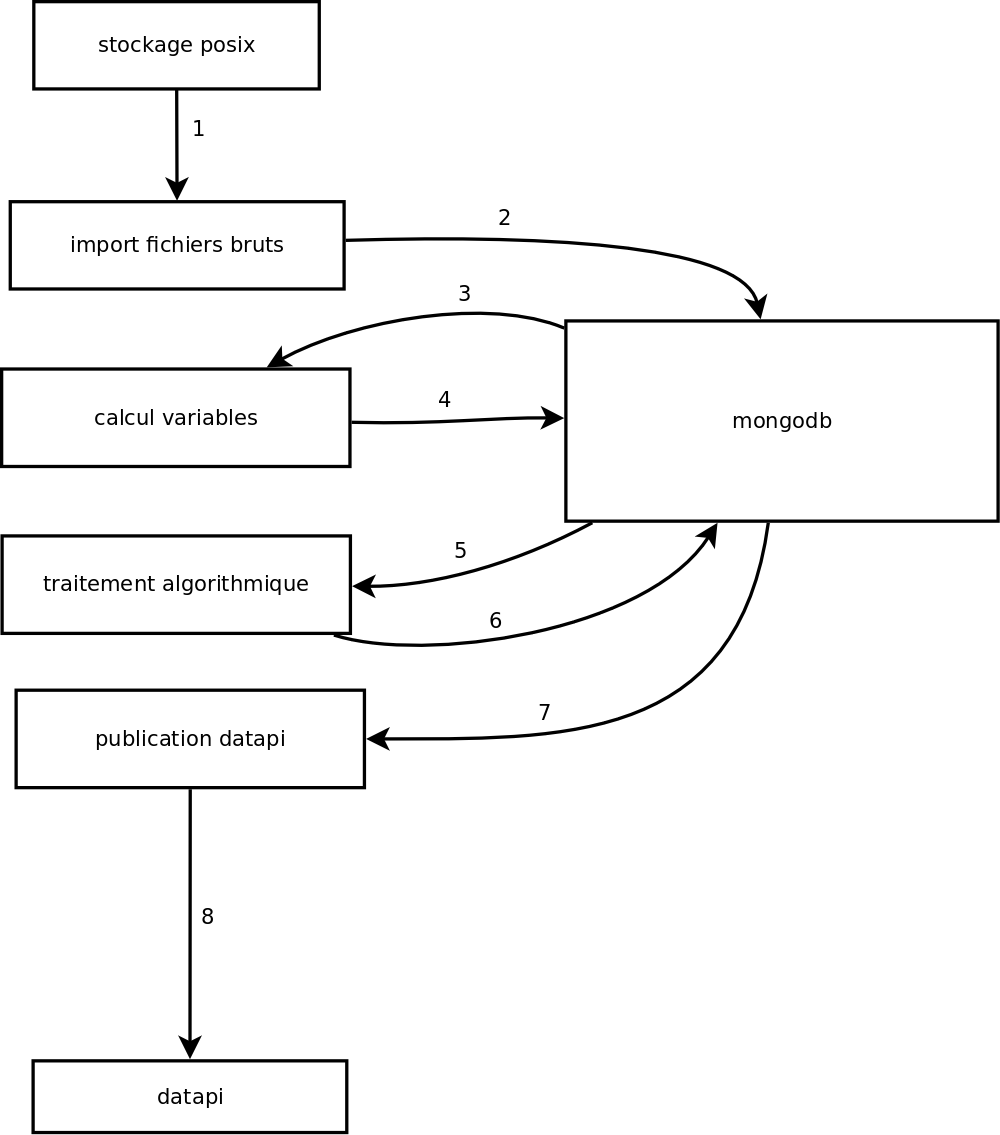
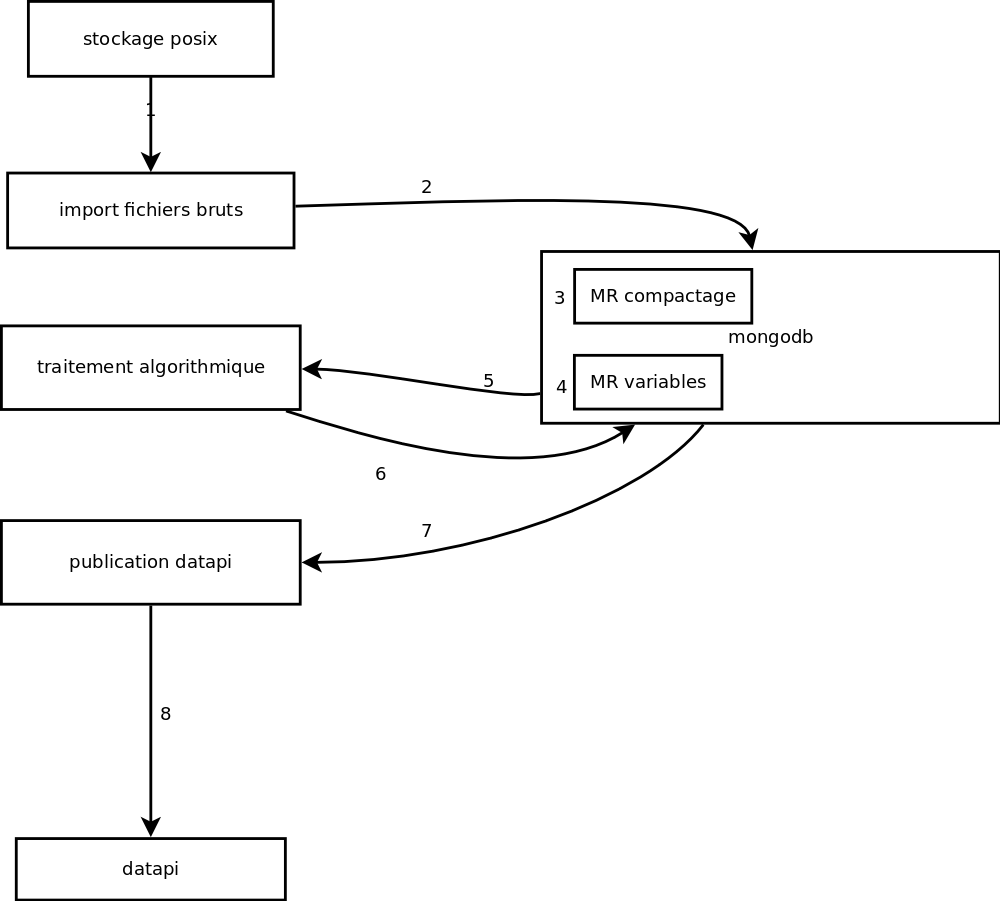
datapi

Changed region(s): [[0.0, 0.0, 1.0, 1.0], [0.713, 0.5283, 0.744, 0.5905], [0.651, 0.5905, 0.713, 0.6215]]

diff --git a/architecture-logicielle.md b/architecture-logicielle.md
@@ -1,5 +1,11 @@
 # Architecture logicielle
 
+## Préambule
+Ce dossier technique décrit les éléments logiciels mis en jeu dans le projet signaux-faibles. Cet ensemble est en cours de construction et est susceptible d'évoluer sensiblement. 
+
+Il est à noter que la brique keycloak est en cours d'intégration suite aux discussions qui ont eu lieu avec les experts des différents partenaires et devrait à terme remplacer le middleware gin-jwt interfacé avec gin-gonic.
+Il se peut que des modifications soient opérées pour tirer le meilleur parti de cette brique logicielle, ces modifications seront répercutées au fil de l'eau dans cette documentation.
+
 ## Objectifs du dispositif
 - récolter les données brutes en provenance des partenaires (goup + stockage POSIX) 
 - traiter/importer les données brutes (opensignauxfaibles + mongodb)
@@ -10,22 +16,22 @@
 ## Schéma fonctionnel
 ![schéma](architecture-logicielle/archi.png)
 
-### goup
+## goup
 Plus de détails sont disponibles [ici](https://github.com/signaux-faibles/goup)
 
-#### Objectif
+### Objectif
 goup permet aux partenaires de déposer les fichiers de données brutes sur la plateforme.  
-#### Composition
+### Composition
 goup est basé sur [tusd](https://github.com/tus/tusd) et lui ajoute des fonctionnalités:
 - authentification par JWT
 - espaces privatifs par utilisateurs (gestion des droits et des chemins)
 - supprime la possibilité de télécharger les fichiers
-#### Authentification JWT
+### Authentification JWT
 En l'absence d'un JWT valide, le service refuse les sollicitations.  
 Ce token devra en plus fournir dans son chargement une propriété `goup-path` correspondant au nom d'utilisateur posix ciblé par le versement.  
 
 
-#### Traitement des fichiers uploadés
+### Traitement des fichiers uploadés
 - Lors de l'envoi, le fichier n'est accessible qu'au serveur
 - La métadonnée `private` associée à l'upload permettra au serveur de décider quel traitement effectuer sur le fichier pour sa mise à disposition.
 - Une fois l'envoi complété, le fichier reste disponible dans l'espace du serveur de sorte qu'il pourra naturellement détecté que le fichier est déjà complet et éviter un deuxième envoi.
@@ -33,7 +39,7 @@ Ce token devra en plus fournir dans son chargement une propriété `goup-path` c
 - Un lien est créé dans l'espace de stockage ad-hoc.
 
 
-#### Structure du stockage
+### Structure du stockage
 Le fichiers uploadés sont matérialisés sur le disque dur par deux fichiers nommés d'après le hash de l'upload généré par TUS:
 - un fichier .bin qui contient les données du fichier
 - un fichier .info qui contient les métadonnées
@@ -76,7 +82,7 @@ chemin                           user:group            mode
 |   +-- file4.info               user2:goup            660
 ```
 
-#### dépendances logicielles
+### dépendances logicielles
 goup est développé en go (v1.10) et exploite les packages suivants:
 - https://github.com/tus/tusd
 - https://github.com/tus/tusd/filestore
@@ -85,51 +91,111 @@ goup est développé en go (v1.10) et exploite les packages suivants:
 - https://github.com/gin-gonic/gin
 - https://github.com/spf13/viper
 
-### client TUS 
-Un exemple de client tus est fourni [ici](https://github.com/signaux-faibles/goup/tree/master/goup-client) et permet de voir une implémentation javascript basée sur le client officiel.  
-On trouve toutefois des clients dans de nombreux langages qui permettront aux utilisateurs d'intégrer l'upload de fichier dans leurs plateformes.  
-
-### keycloak
+## keycloak
 Il s'agit du produit officiel développé par Red-Hat.
 KeyCloak fournit les services d'authentification pour `goup` et `datapi` en forgeant les JWT des utilisateurs.
 
-#### Structure du chargement JWT
+### Structure du chargement JWT
 Deux métadonnées sont utilisées:
 - goup-path: ouvre la possibilité de téléverger des fichiers sur goup et désigne l'utilisateur. Il s'agit d'une chaine de caractère
 - scope: fixe les attribution de l'utilisateurs au sein de datapi. Il s'agit d'une liste de chaines de caractères.
 
-### opensignauxfaibles
-#### Objectif
+## opensignauxfaibles
+### Objectif
 opensignauxfaibles se charge du traitement des données:
 - import des fichiers bruts
 - calcul des données d'entrée de l'algorithme
 - stockage des résultats
 
-cette brique permet de stocker l'historique des données brutes, mais aussi calculées, ainsi que les résultats de façon offrir une plateforme de travail propice à l'investigation.
-#### Modules
-##### dbmongo
+Cette brique intègre le stockage de l'historique des données brutes, mais aussi calculées, ainsi que des résultats de façon à permettre l'audit des calculs a posteriori.
+
+### Modules
+#### dbmongo
 Ce module est écrit en go (1.10) et centralise les fonctions de traitement des données suivantes:
 - analyse des fichiers bruts
 - conversion/insert dans mongodb
 - ordonnancement des traitements mapreduce/aggregations mongodb
 - publication vers datapi
 
-##### module R/H2O
-Ce module permet le traitement algorithmique.. (à écrire)
+##### Dépendances logicielles
+- https://github.com/appleboy/gin-jwt
+- https://github.com/gin-contrib/cors
+- https://github.com/gin-contrib/static
+- https://github.com/gin-gonic/gin
+- https://github.com/gorilla/websocket
+- https://github.com/spf13/viper
+- https://github.com/swaggo/gin-swagger
+- https://github.com/swaggo/gin-swagger/swaggerFiles
+- https://github.com/globalsign/mgo
+- https://github.com/globalsign/mgo/bson
+- https://github.com/spf13/viper
+- https://github.com/tealeg/xlsx
+- https://github.com/chrnin/gournal
+- mongodb 3.6
 
-#### Flux de traitement
+##### utilisation
+dbmongo propose une api pour ordonner les traitements. Une documentation openapi est disponible [ici](https://raw.githubusercontent.com/signaux-faibles/opensignauxfaibles/master/dbmongo/docs/swagger/swagger.yaml)
+
+#### module R/H2O
+Ce module permet le traitement algorithmique. (à écrire)
+
+### Flux de traitement
 ![schéma](architecture-logicielle/workflow-osf.png)
 1. Lecture des fichiers bruts ([dbmongo](#dbmongo))
 1. Les données brutes sont converties et insérées dans mongodb ([dbmongo](#dbmongo))
-1. Les données sont compactées dans mongodb par un traitement mapReduce
-1. Les variables sont calculées dans mongodb par un traitement mapReduce
-1. Le traitement algorithmique est effectué par le module [R/H20](#module-rh20)
-Pour plus de détail voir [ici](processus-traitement-donnees.md).
-### datapi
+1. Les données sont compactées dans mongodb par un traitement map-reduce ([dbmongo](#dbmongo))
+1. Les variables sont calculées dans mongodb par un traitement map-reduce ([dbmongo](#dbmongo))
+1. Le traitement algorithmique est effectué par le module [R/H2O](#module-rh2o)
+1. Les résultats sont injectés dans mongodb par le module [R/H2O](#module-rh2o)
+1. Les données nécessaires au frontend sont exportées dans datapi par le module ([dbmongo](#dbmongo))
 
-### signauxfaibles-web
+Pour plus de détail sur le traitement des données et les transformations qui leur sont appliquées, voir [ici](processus-traitement-donnees.md).
 
+### Publication vers datapi
+opensignauxfaibles dispose d'un identifiant lui ouvrant la possibilité de publier des données sur datapi.
+Il lui incombe de fournir à datapi:
+- des données détaillées sur les établissements et les entreprises (niveau A)
+- des données synthétiques sur les établissements et les entreprises (niveau B)
+- les listes de détection (niveau A)
+- les badges de sécurité pour tous les objets exportés afin d'appliquer les niveaux de sécurité.
+
+Ce traitement est écrit en dur dans le code de dbmongo [ici](https://github.com/signaux-faibles/opensignauxfaibles/blob/master/dbmongo/lib/engine/datapi.go)
+
+## datapi
+Le détail sur le fonctionnement de Datapi est disponible [ici](https://github.com/signaux-faibles/datapi)
+
+### Objectif
+Dans cette infrastructure, datapi est la brique permettant la diffusion contrôlée des données produites dans le projet et sert notamment de back-end pour le signauxfaibles-web.  
+Parmi les fonctionnalités notables:
+- stockage arbitraire d'objets JSON
+- gestion dynamique des permissions en lecture/écriture
+- journalisation des requêtes
+- programmation de la péremption des données
+
+### Principe d'alimentation
+![workflow](architecture-logicielle/workflow-datapi.png)
+Il est à noter que:
+- les insertions et lectures de données sont effectuées au sein de transactions postgres.
+- la prise en compte de l'ajout de données et de politiques de sécurité est intégrée dans le système transactionnel de façon à présenter un comportement synchrone
+- les permissions accordées aux utilisateurs sont véhiculées dans le token JWT et reposent sur la sécurité de keycloak.
+
+### Dépendances logicielles
+- https://github.com/gin-contrib/cors
+- https://github.com/gin-gonic/gin
+- https://github.com/appleboy/gin-jwt
+- https://github.com/swaggo/gin-swagger
+- https://github.com/swaggo/gin-swagger/swaggerFiles
+- https://github.com/gin-gonic/gin
+- https://github.com/lib/pq
+- https://github.com/lib/pq/hstore
+- https://golang.org/x/crypto/bcrypt
+
+## signauxfaibles-web
+
+## Produits extérieurs
 ### mongodb
-
+### keycloak
 ### postgresql
-
+### client TUS 
+Un exemple de client tus est fourni [ici](https://github.com/signaux-faibles/goup/tree/master/goup-client) et permet de voir une implémentation javascript basée sur le client officiel.  
+On trouve toutefois des clients dans de nombreux langages qui permettront aux utilisateurs d'intégrer l'upload de fichier dans leurs plateformes. 
